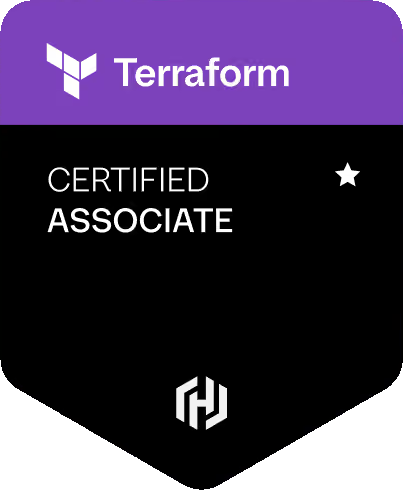
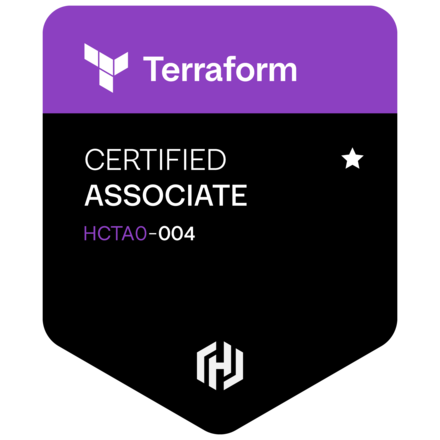
Terraform Associate card: use the HCTA0-004 badge image, cropped square

Changed region(s): [[0.0, 0.0, 1.0, 1.0], [0.4169, 0.7682, 0.5658, 0.8864]]

diff --git a/components/Achievements.js b/components/Achievements.js
@@ -63,7 +63,7 @@ const Achievements = () => {
             description={"In progress (not yet earned)"}
             image={"/certifications/terraform-associate.png"}
             imageAlt={"Terraform Certified Associate badge (certification in progress, not yet earned)"}
-            width={82}
+            width={100}
             height={100}
             link={undefined}
           />
